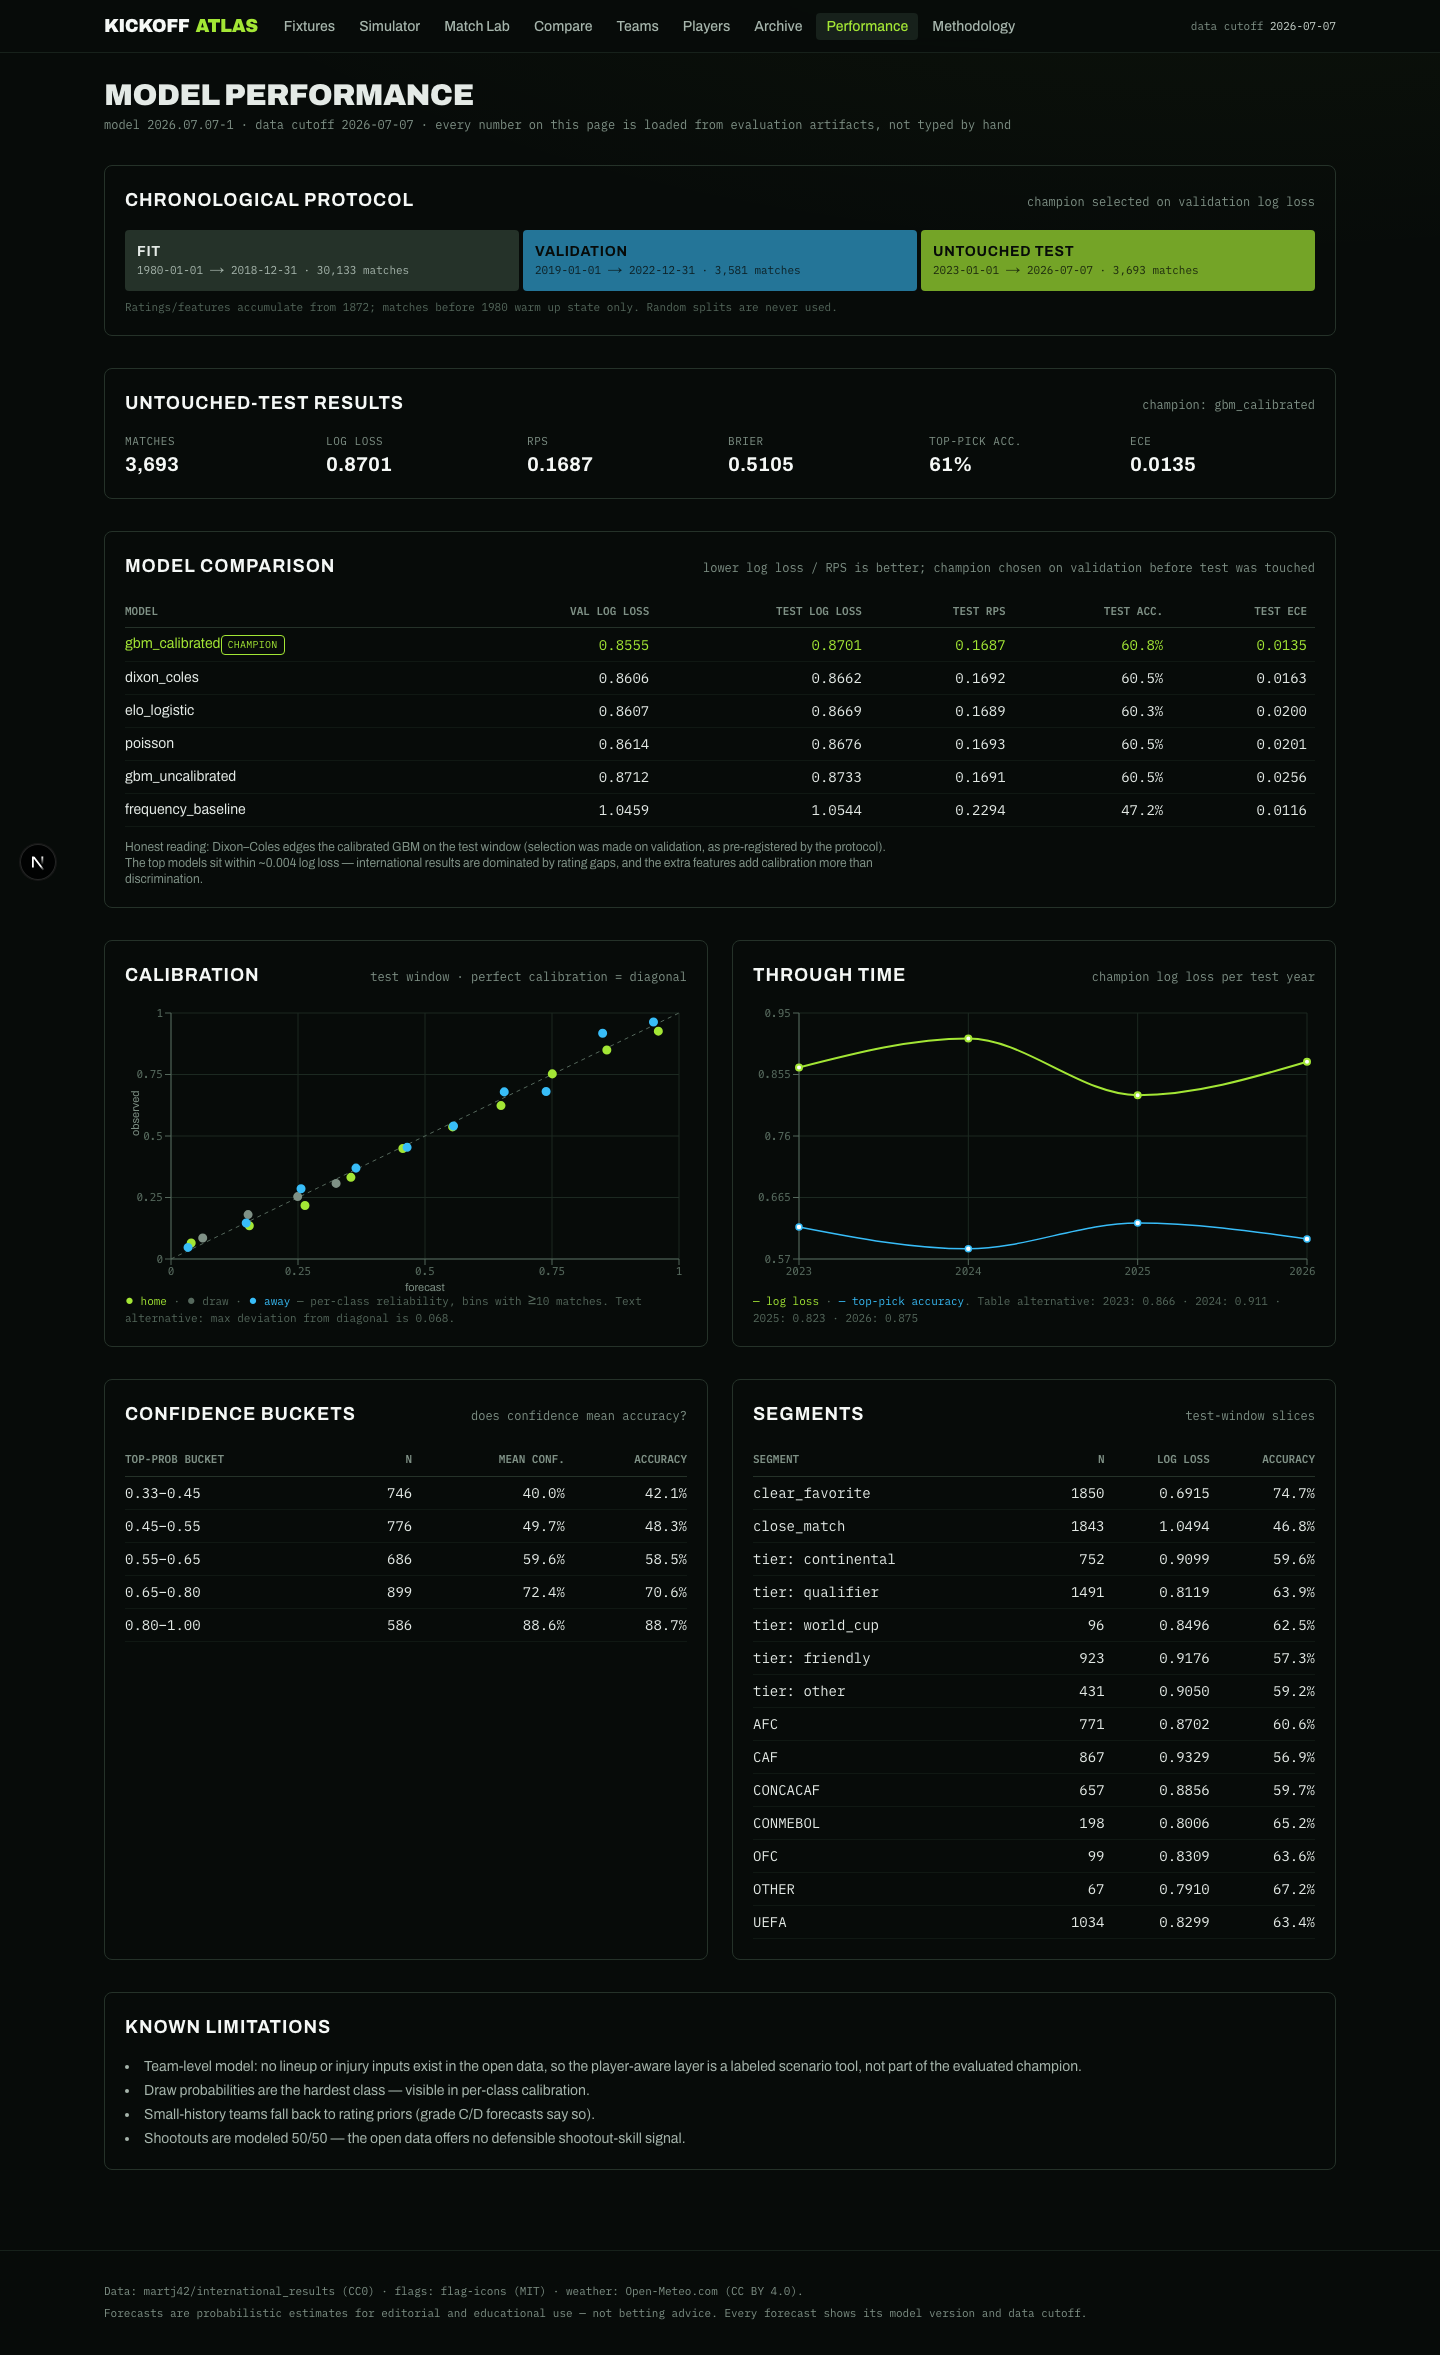
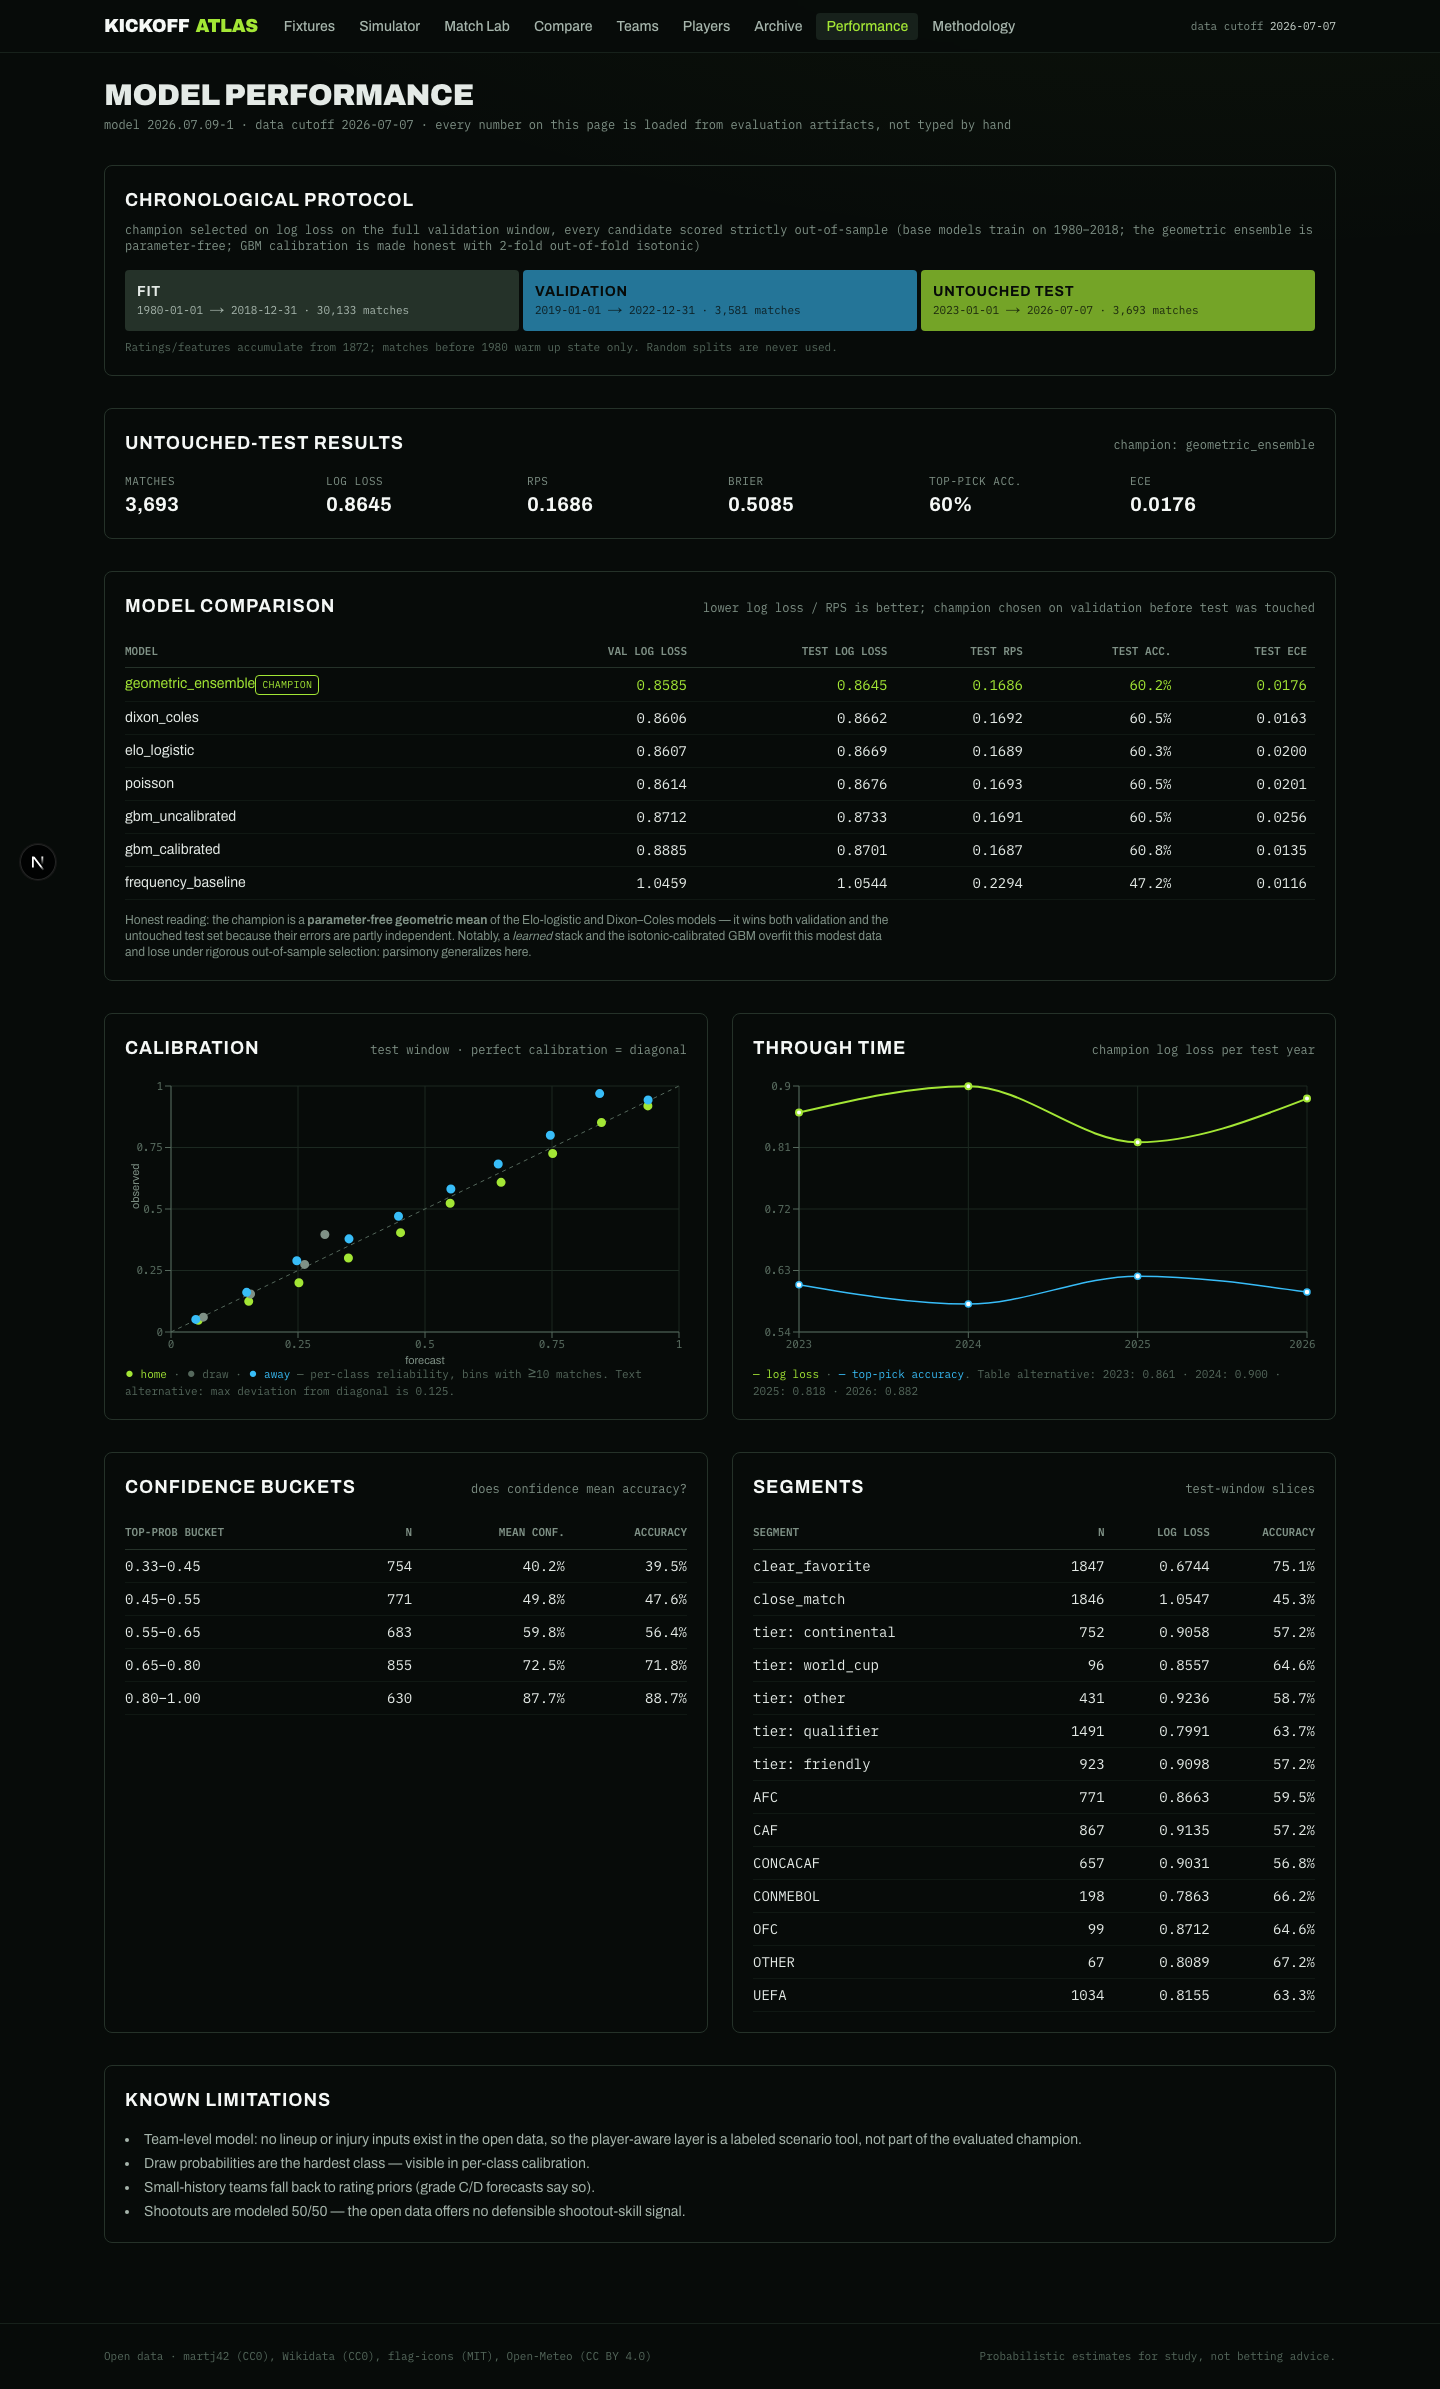
chore: repo cleanup for public/deployment
- untrack data/kickoff.db (runtime state, regenerated at startup) + gitignore it
- add MIT LICENSE (with upstream data-license note) and .dockerignore
- remove internal WIP tracking (TASKS.md, IMPLEMENTATION_PLAN.md); keep
  DECISIONS.md + RISK_REGISTER.md as portfolio artifacts, linked from README
- README license section; refresh home/fixtures/performance screenshots
  (all fixture cards now show prob bars; new champion in tables)

diff --git a/README.md b/README.md
@@ -182,4 +182,12 @@ README was executed and verified locally.
 [player model](docs/player-model.md) · [availability](docs/availability-model.md) ·
 [tournament rules](docs/tournament-rules.md) · [providers](docs/provider-setup.md) ·
 [deployment](docs/deployment.md) · [security](docs/security.md) ·
-[case study](docs/portfolio-case-study.md) · [interview guide](docs/interview-guide.md)
+[case study](docs/portfolio-case-study.md) · [interview guide](docs/interview-guide.md) ·
+[decisions](DECISIONS.md) · [risk register](RISK_REGISTER.md)
+
+## License
+
+Source code under the [MIT License](LICENSE). Data and assets keep their
+upstream licenses (all CC0 / MIT / CC BY 4.0 — see
+[data-source-evaluation](docs/data-source-evaluation.md)). Forecasts are
+probabilistic estimates for educational use, not betting advice.